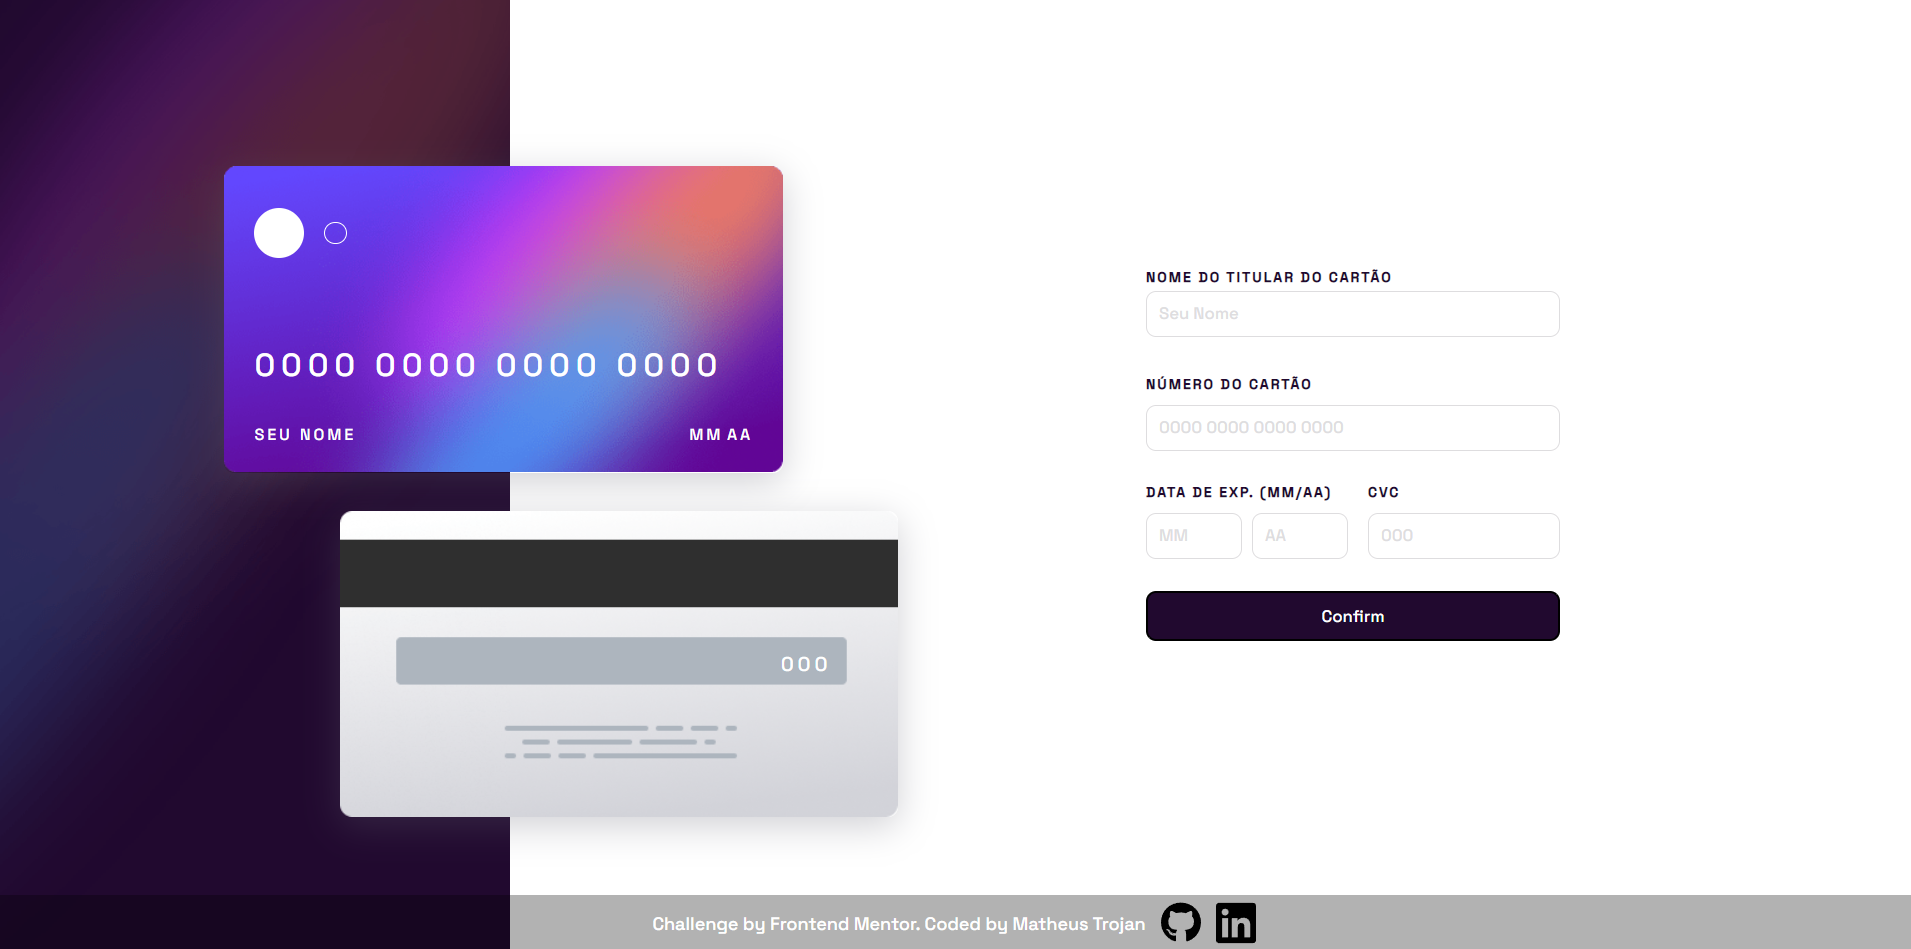
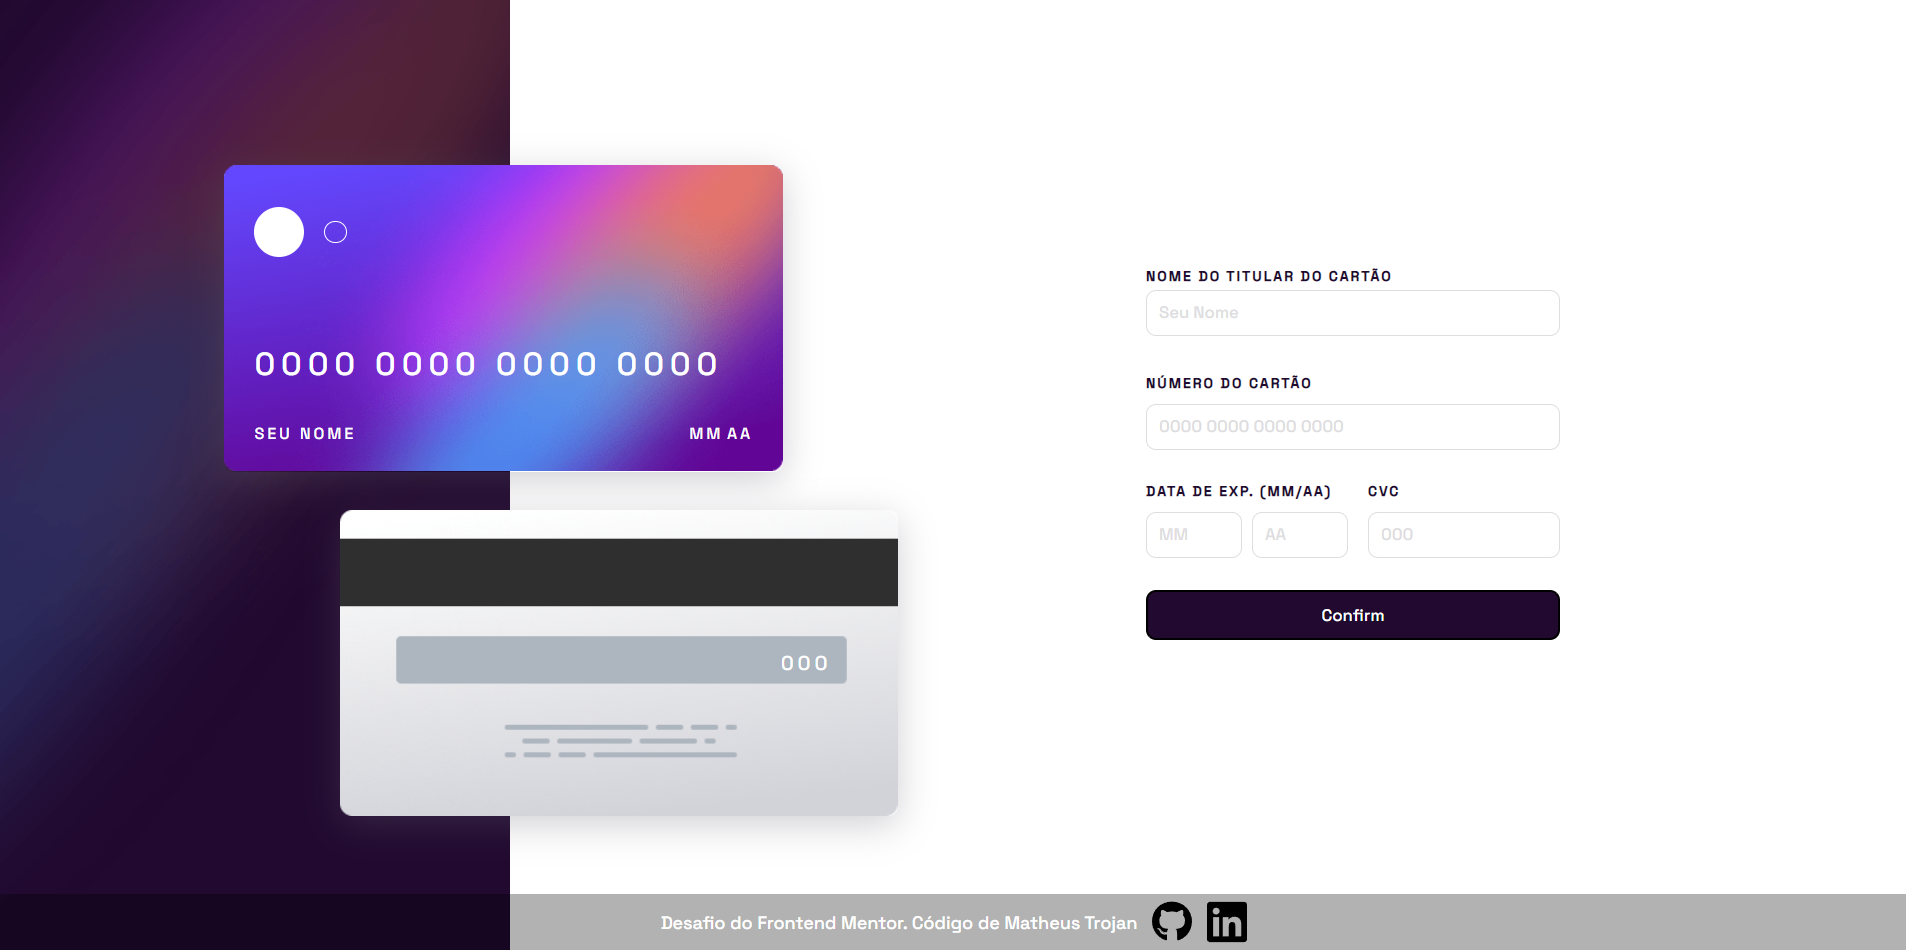
Arrumei o rodapé

diff --git a/index.html b/index.html
@@ -66,7 +66,7 @@
     </main>
     
     <footer class="container__rodape">
-      <p class="rodape__texto">Challenge by Frontend Mentor. Coded by Matheus Trojan</p>
+      <p class="rodape__texto">Desafio do Frontend Mentor. Código de Matheus Trojan</p>
       <a href="https://github.com/MatheusTrojan" class="rodape__imagem">
         <img src="src/images/github.svg" alt="Acesse meu Github">
       </a>
